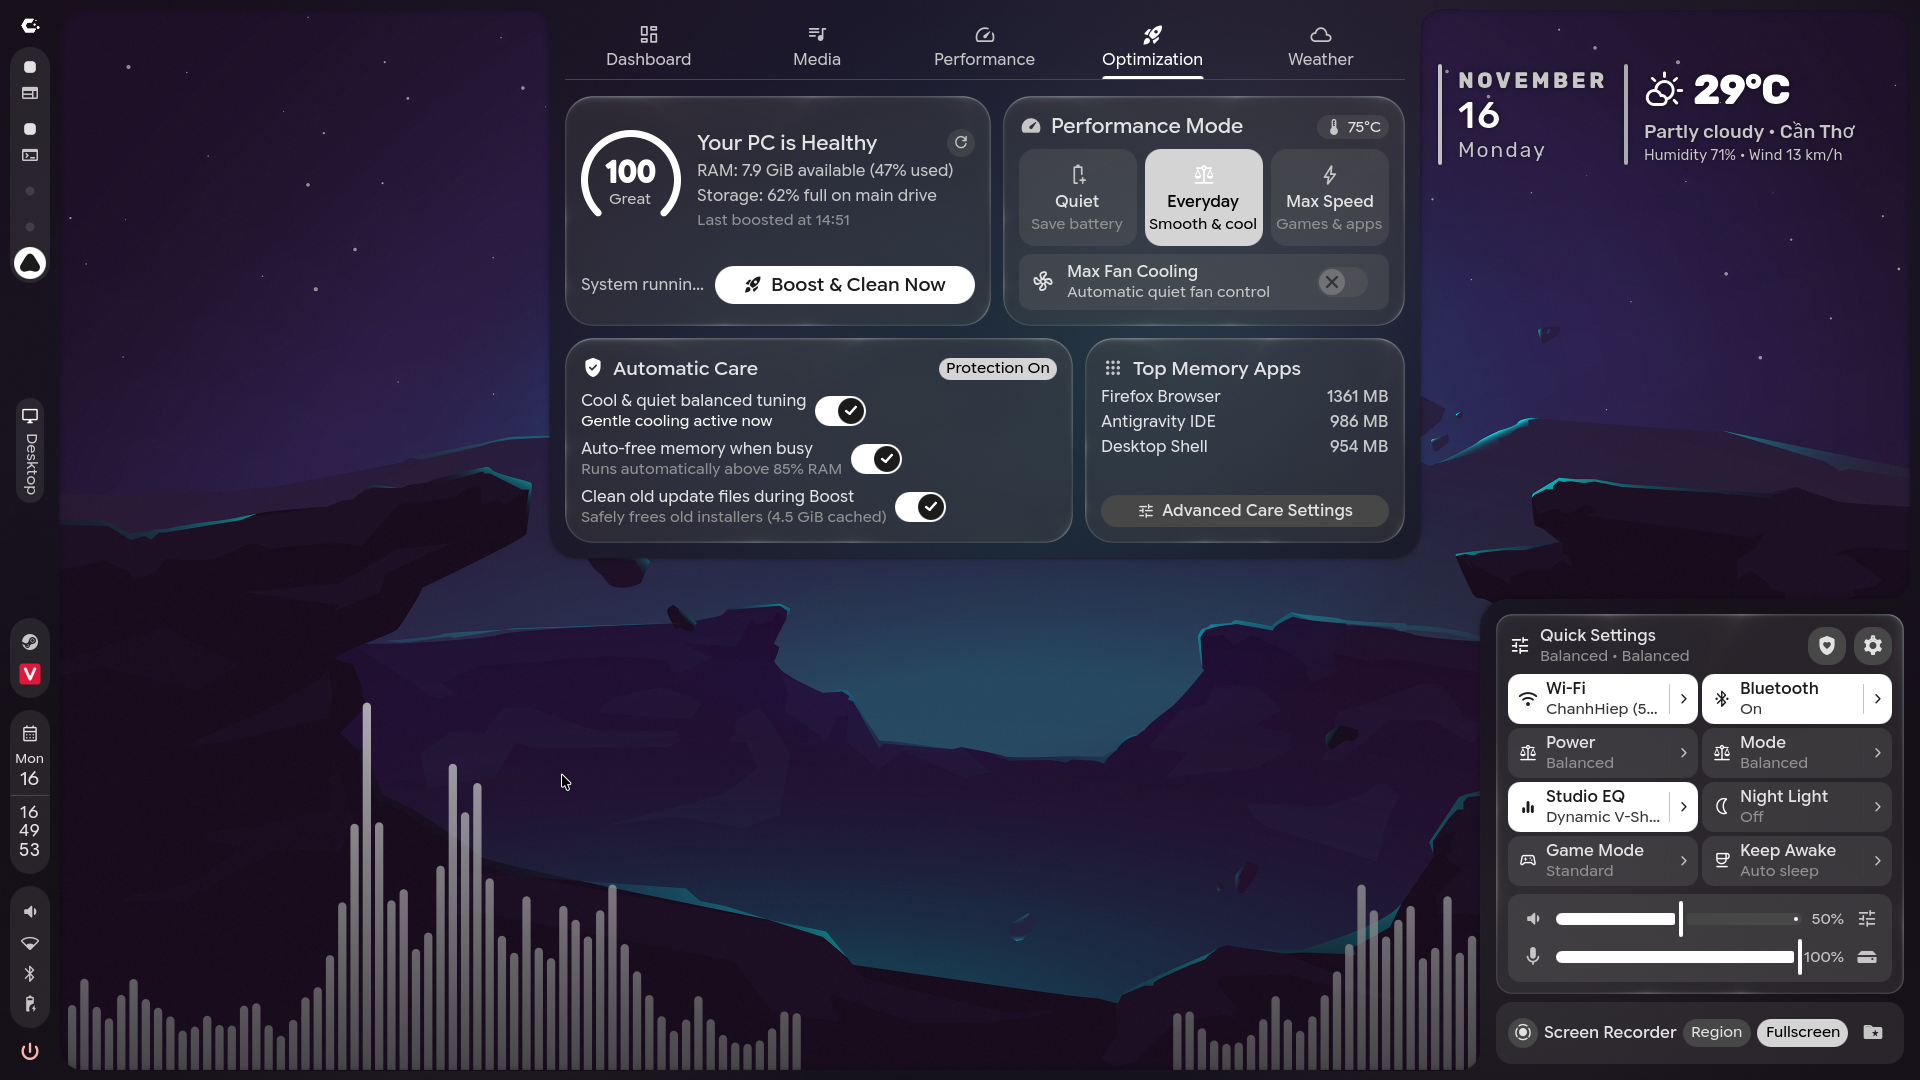
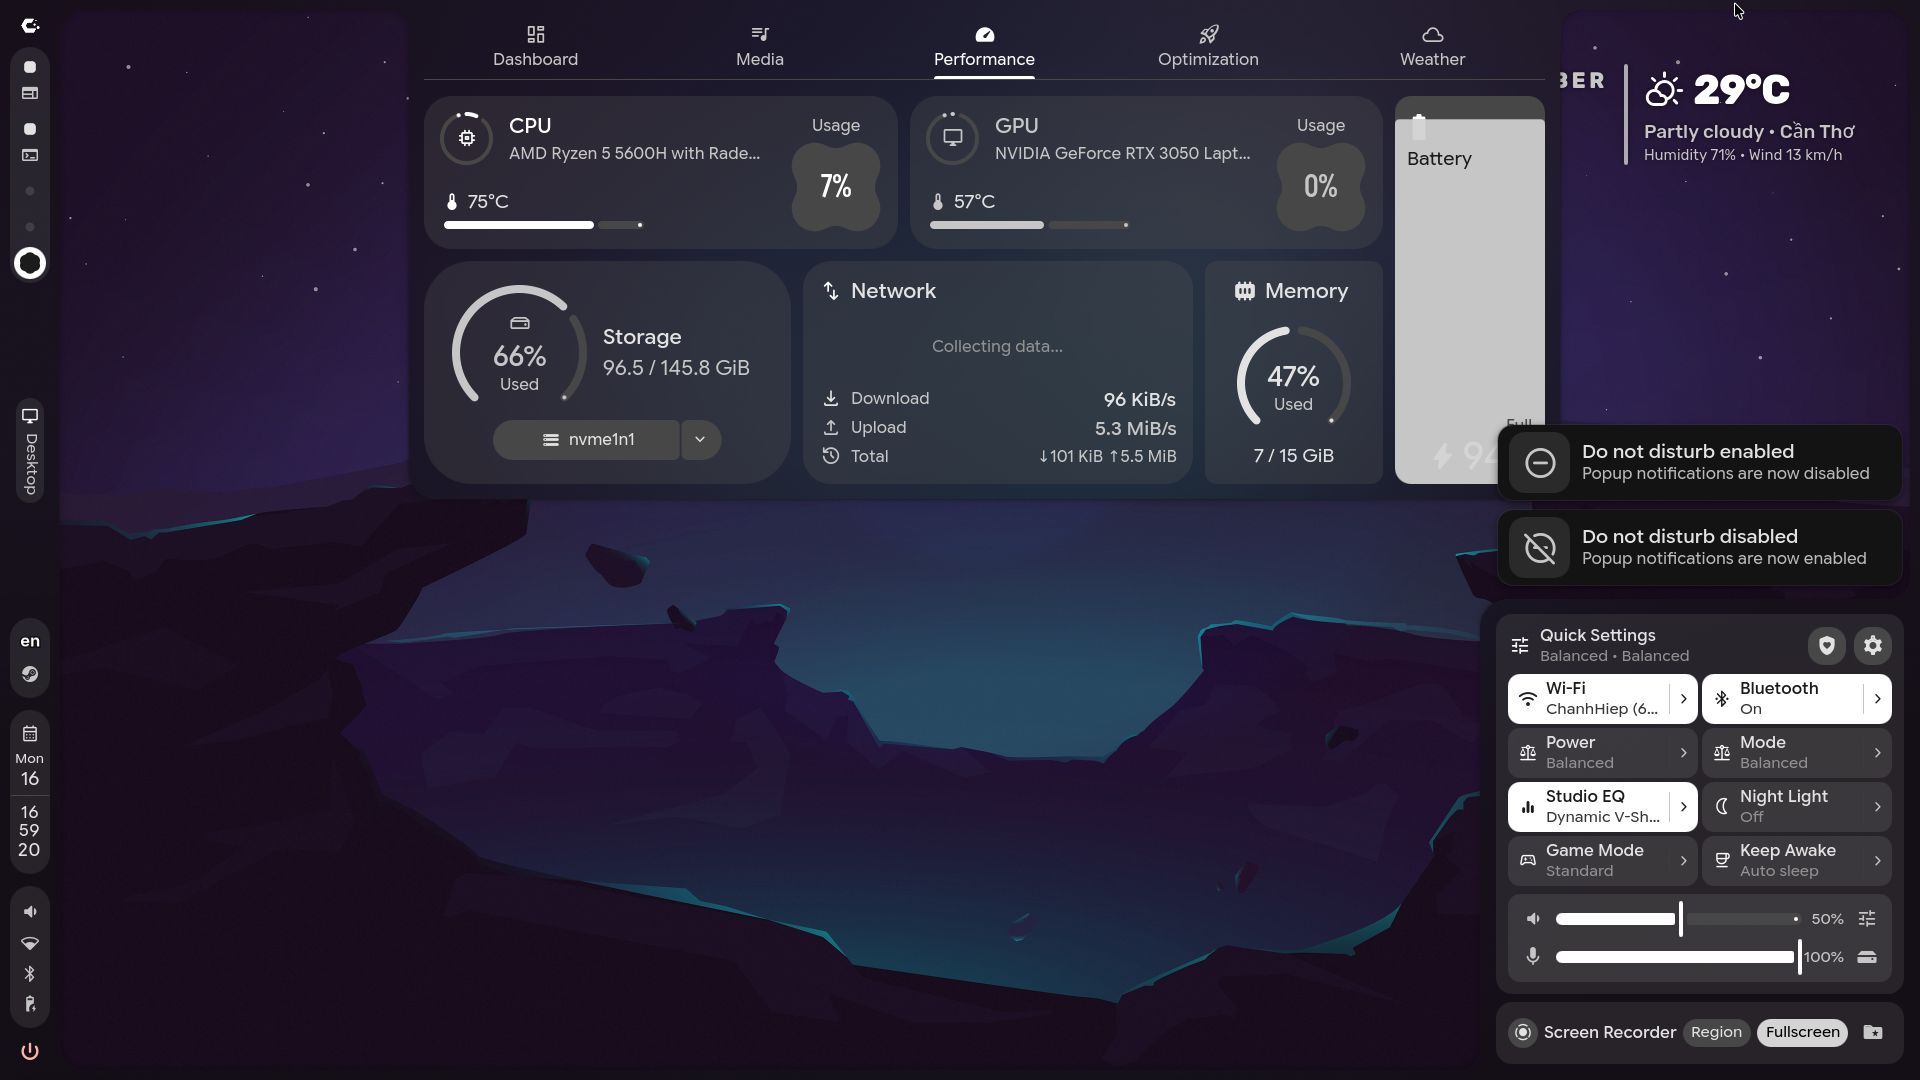
polish: global Apple-style static Liquid Glass shader and slim vertical Mode Edge OSD

diff --git a/config/quickshell/caelestia/modules/osd/Content.qml b/config/quickshell/caelestia/modules/osd/Content.qml
@@ -6,7 +6,6 @@ import Caelestia
 import Caelestia.Config
 import qs.components
 import qs.components.controls
-import qs.components.effects
 import qs.services
 import qs.utils
 
@@ -22,7 +21,17 @@ Item {
     required property bool sourceMuted
     required property real brightness
 
-    implicitWidth: Math.max(layout.implicitWidth, modeOsdCard.visible ? modeOsdCard.implicitWidth : 0) + Tokens.padding.large + layout.anchors.horizontalCenterOffset * 2
+    readonly property string shortModeTag: {
+        const id = ExtraConfig.activeModeId;
+        if (id === "gaming") return "GAME";
+        if (id === "work") return "WORK";
+        if (id === "coding") return "DEV";
+        if (id === "cinema") return "CINE";
+        if (id === "sleep") return "ECO";
+        return "BAL";
+    }
+
+    implicitWidth: layout.implicitWidth + Tokens.padding.large + layout.anchors.horizontalCenterOffset * 2
     implicitHeight: layout.implicitHeight + Tokens.padding.large * 2
 
     ColumnLayout {
@@ -32,51 +41,39 @@ Item {
         anchors.horizontalCenterOffset: CUtils.clamp(Tokens.padding.large - Config.border.thickness, 0, Tokens.padding.large) / 2
         spacing: Tokens.spacing.medium
 
-        // Mode Switch Edge OSD Pill (shown when switching modes via shortcut or routine)
+        // Slim vertical Mode Switch Pill matching exact width of Volume/Brightness sliders
         StyledRect {
             id: modeOsdCard
 
             visible: ExtraConfig.modeOsdVisible
-            Layout.alignment: Qt.AlignRight
-            implicitWidth: modeOsdRow.implicitWidth + Tokens.padding.medium * 2
-            implicitHeight: modeOsdRow.implicitHeight + Tokens.padding.small * 2
-            radius: Tokens.rounding.large
+            Layout.alignment: Qt.AlignHCenter
+            implicitWidth: Tokens.sizes.osd.sliderWidth
+            implicitHeight: modeOsdCol.implicitHeight + Tokens.padding.small * 2
+            radius: Tokens.rounding.full
             color: Colours.palette.m3primaryContainer
-            clip: true
 
-            LiquidGlassOverlay {
-                radius: parent.radius
-            }
-
-            RowLayout {
-                id: modeOsdRow
+            ColumnLayout {
+                id: modeOsdCol
 
                 anchors.centerIn: parent
-                spacing: Tokens.spacing.small
+                width: parent.width - 2
+                spacing: 2
 
                 MaterialIcon {
+                    Layout.alignment: Qt.AlignHCenter
                     text: ExtraConfig.activeModeIcon
                     color: Colours.palette.m3onPrimaryContainer
                     fontStyle: Tokens.font.icon.medium
                     fill: 1
                 }
 
-                ColumnLayout {
-                    spacing: 0
-
-                    StyledText {
-                        text: ExtraConfig.activeModeName
-                        color: Colours.palette.m3onPrimaryContainer
-                        font: Tokens.font.label.large
-                    }
-
-                    StyledText {
-                        visible: ExtraConfig.modeOsdSubtitle.length > 0
-                        text: ExtraConfig.modeOsdSubtitle
-                        color: Colours.palette.m3onPrimaryContainer
-                        opacity: 0.8
-                        font: Tokens.font.label.small
-                    }
+                StyledText {
+                    Layout.alignment: Qt.AlignHCenter
+                    text: root.shortModeTag
+                    color: Colours.palette.m3onPrimaryContainer
+                    font.pixelSize: 8
+                    font.weight: Font.Bold
+                    font.letterSpacing: 0.3
                 }
             }
         }

diff --git a/config/quickshell/caelestia/modules/nexus/pages/WallpaperAndStyle.qml b/config/quickshell/caelestia/modules/nexus/pages/WallpaperAndStyle.qml
@@ -211,31 +211,18 @@ PageBase {
         ToggleRow {
             Layout.topMargin: Tokens.spacing.extraSmall / 2 - parent.spacing
 
-            text: Tr.tr("Liquid Glass & Water Optics")
-            subtext: Tr.tr("Refractive specular glass rims, animated water caustics & deep vibrancy blur")
+            text: Tr.tr("Liquid Glass (Optical Rim & Vibrancy)")
+            subtext: Tr.tr("Apple-style curved Fresnel glass edge highlights & deep frosted backdrop blur")
             checked: ExtraConfig.liquidGlassEnabled
             onToggled: ExtraConfig.setLiquidGlass(checked)
-        }
-
-        ToggleRow {
-            Layout.topMargin: Tokens.spacing.extraSmall / 2 - parent.spacing
-
-            text: Tr.tr("Animated water caustics")
-            subtext: Tr.tr("Subtle fluid light dispersion shimmering across glass surfaces")
-            enabled: ExtraConfig.liquidGlassEnabled
-            checked: ExtraConfig.liquidGlassAnimate
-            onToggled: {
-                ExtraConfig.liquidGlassAnimate = checked;
-                ExtraConfig.save();
-            }
         }
 
         SliderRow {
             Layout.topMargin: Tokens.spacing.extraSmall / 2 - parent.spacing
 
             last: true
-            icon: "water_drop"
-            label: Tr.tr("Optical glass intensity")
+            icon: "blur_on"
+            label: Tr.tr("Optical glass rim intensity")
             valueLabel: `${Math.round(value * 100)}%`
             from: 0.2
             to: 1.0

diff --git a/config/quickshell/caelestia/modules/dashboard/Optimization.qml b/config/quickshell/caelestia/modules/dashboard/Optimization.qml
@@ -6,7 +6,6 @@ import Caelestia.Config
 import Caelestia.I18n
 import qs.components
 import qs.components.controls
-import qs.components.effects
 import qs.services
 import qs.utils
 import qs.modules.nexus
@@ -60,10 +59,6 @@ Item {
                 radius: Tokens.rounding.extraLarge
                 color: Colours.tPalette.m3surfaceContainer
                 clip: true
-
-                LiquidGlassOverlay {
-                    radius: parent.radius
-                }
 
                 ColumnLayout {
                     id: boostCol
@@ -259,10 +254,6 @@ Item {
                 color: Colours.tPalette.m3surfaceContainer
                 clip: true
 
-                LiquidGlassOverlay {
-                    radius: parent.radius
-                }
-
                 ColumnLayout {
                     id: modeCol
 
@@ -444,10 +435,6 @@ Item {
                 color: Colours.tPalette.m3surfaceContainer
                 clip: true
 
-                LiquidGlassOverlay {
-                    radius: parent.radius
-                }
-
                 ColumnLayout {
                     id: careCol
 
@@ -595,10 +582,6 @@ Item {
                 radius: Tokens.rounding.extraLarge
                 color: Colours.tPalette.m3surfaceContainer
                 clip: true
-
-                LiquidGlassOverlay {
-                    radius: parent.radius
-                }
 
                 ColumnLayout {
                     id: appsCol

diff --git a/config/quickshell/caelestia/services/ExtraConfig.qml b/config/quickshell/caelestia/services/ExtraConfig.qml
@@ -545,13 +545,13 @@ Singleton {
         if (enabled && !GameMode.enabled && !root._sleepSolidOverride) {
             Hypr.extras.applyOptions({
                 "decoration:blur:enabled": 1,
-                "decoration:blur:size": 14,
+                "decoration:blur:size": 16,
                 "decoration:blur:passes": 4,
-                "decoration:blur:vibrancy": 0.30,
-                "decoration:blur:vibrancy_darkness": 0.22,
-                "decoration:blur:contrast": 1.06,
+                "decoration:blur:vibrancy": 0.36,
+                "decoration:blur:vibrancy_darkness": 0.18,
+                "decoration:blur:contrast": 1.07,
                 "decoration:blur:brightness": 1.05,
-                "decoration:blur:noise": 0.015,
+                "decoration:blur:noise": 0.006,
                 "decoration:blur:popups": 1
             });
         } else if (!GameMode.enabled && !root._sleepSolidOverride) {
@@ -1156,6 +1156,8 @@ print(json.dumps(out))
                 }
             } catch (e) {}
             root.loaded = true;
+            if (root.liquidGlassEnabled && !GameMode.enabled)
+                Qt.callLater(() => root.applyLiquidGlassBlur(true));
             Qt.callLater(() => saveTimer.restart());
         }
         onLoadFailed: err => {

diff --git a/config/quickshell/caelestia/components/effects/LiquidGlassOverlay.qml b/config/quickshell/caelestia/components/effects/LiquidGlassOverlay.qml
@@ -7,28 +7,16 @@ import qs.services
 ShaderEffect {
     id: root
 
-    property real radius: 20
-    readonly property bool active: ExtraConfig.liquidGlassActive && visible && width > 4 && height > 4
-
-    property real uTime: 0
+    property real radius: 16
     readonly property real uWidth: width
     readonly property real uHeight: height
     readonly property real uRadius: radius
     readonly property real uIntensity: ExtraConfig.liquidGlassIntensity
-    readonly property real uAnimate: ExtraConfig.liquidGlassAnimate ? 1.0 : 0.0
+    readonly property real uIsLight: Colours.light ? 1.0 : 0.0
     readonly property color uTint: Colours.palette.m3primary
 
     anchors.fill: parent
     enabled: false
-    visible: ExtraConfig.liquidGlassActive
-    opacity: active ? 1.0 : 0.0
+    z: 99
     fragmentShader: Qt.resolvedUrl(`${Quickshell.shellDir}/assets/shaders/liquid_glass.frag.qsb`)
-
-    NumberAnimation on uTime {
-        from: 0
-        to: 62.831853
-        duration: 36000
-        loops: Animation.Infinite
-        running: root.active && ExtraConfig.liquidGlassAnimate
-    }
 }

diff --git a/config/quickshell/caelestia/components/StyledRect.qml b/config/quickshell/caelestia/components/StyledRect.qml
@@ -1,11 +1,29 @@
 import QtQuick
+import qs.components.effects
+import qs.services
 
 Rectangle {
     id: root
+
+    readonly property bool liquidGlassEligible: ExtraConfig.liquidGlassActive
+        && Math.max(root.width, root.height) >= 84
+        && Math.min(root.width, root.height) >= 34
+        && root.radius >= 10
+        && root.color.a > 0.04
+        && root.border.width === 0
 
     color: "transparent"
 
     Behavior on color {
         CAnim {}
+    }
+
+    Loader {
+        anchors.fill: parent
+        active: root.liquidGlassEligible
+        asynchronous: false
+        sourceComponent: LiquidGlassOverlay {
+            radius: root.radius
+        }
     }
 }

diff --git a/config/quickshell/caelestia/modules/utilities/cards/Toggles.qml b/config/quickshell/caelestia/modules/utilities/cards/Toggles.qml
@@ -8,7 +8,6 @@ import Caelestia.Config
 import Caelestia.I18n
 import qs.components
 import qs.components.controls
-import qs.components.effects
 import qs.services
 import qs.utils
 import qs.modules.nexus
@@ -57,10 +56,6 @@ StyledRect {
     radius: Tokens.rounding.large
     color: Colours.tPalette.m3surfaceContainer
     clip: true
-
-    LiquidGlassOverlay {
-        radius: parent.radius
-    }
 
     ColumnLayout {
         id: layout

diff --git a/README.md b/README.md
@@ -44,8 +44,8 @@
   - Searchable overview of all active Hyprland & shell shortcuts plus a visual builder to bind custom hotkeys to **System Modes** (`SUPER + ALT + M` cycle mode, `SUPER + ALT + G` Gaming toggle), UI panels (`SUPER + ALT + O` Optimization, `SUPER + ALT + K` Keybinds), or custom commands (`hypr-user.lua` + live `hyprctl reload`).
 - **Right-Edge Mode Switch OSD:**
   - Switching modes via hotkey or routine displays a crisp edge OSD pill right above the Volume/Brightness sliders (`WlrLayer.Overlay` — floats cleanly over normal and fullscreen windows).
-- **Liquid Glass & Water Optics (`Wallpaper & style`):**
-  - Real compiled Qt6 GLSL fragment shader (`liquid_glass.frag.qsb`) paired with Hyprland multi-pass vibrancy blur (`size 14`, `passes 4`), delivering curved Fresnel specular rims, subtle chromatic edge dispersion, and animated water caustic shimmer (automatically disabled for 0% overhead in Game Mode / Battery Saver).
+- **Apple-Style Liquid Glass (`Wallpaper & style`):**
+  - Compiled Qt6 GLSL Fresnel optical shader (`liquid_glass.frag.qsb`) applied globally across `StyledRect` cards and panels, paired with Hyprland multi-pass vibrancy blur (`size 16`, `passes 4`, `vibrancy 0.36`) for subtle curved specular rims and crystal-clear glass depth (automatically disabled for 0% overhead in Game Mode / Battery Saver).
 
 ---
 
@@ -100,15 +100,15 @@ Instant bottom-right control drawer synchronized 1:1 with Modes, Power Profiles,
 
 ---
 
-### Liquid Glass & Water Optics Shader
-Optional macOS-inspired optical glass mode (`Wallpaper & style → Liquid Glass & Water Optics`) using a compiled Qt6 GLSL fragment shader (`liquid_glass.frag.qsb`) for curved specular rims, chromatic dispersion, and animated water caustics.
+### Apple-Style Liquid Glass (Global Optical Rim & Vibrancy)
+Optional macOS-inspired optical glass mode (`Wallpaper & style → Liquid Glass`) using a global compiled Qt6 GLSL shader (`liquid_glass.frag.qsb`) on rounded cards and surfaces for curved directional specular rims and deep frosted backdrop vibrancy blur.
 
-![Liquid Glass and Water Optics](assets/screenshots/liquid-glass.png)
+![Liquid Glass Optical Rim and Vibrancy](assets/screenshots/liquid-glass.png)
 
 ---
 
 ### Edge Mode Switch OSD (Overrides Fullscreen)
-Switching modes via keyboard shortcuts (`SUPER + ALT + M` / `SUPER + ALT + G`) or routines reveals a right-edge OSD overlay right alongside Volume & Brightness sliders over all windows.
+Switching modes via keyboard shortcuts (`SUPER + ALT + M` / `SUPER + ALT + G`) or routines shows a slim vertical Mode Pill right at the Volume & Brightness edge bar (`WlrLayer.Overlay` over normal & fullscreen windows).
 
 ![Mode Switch Edge OSD](assets/screenshots/mode-osd.png)
 
